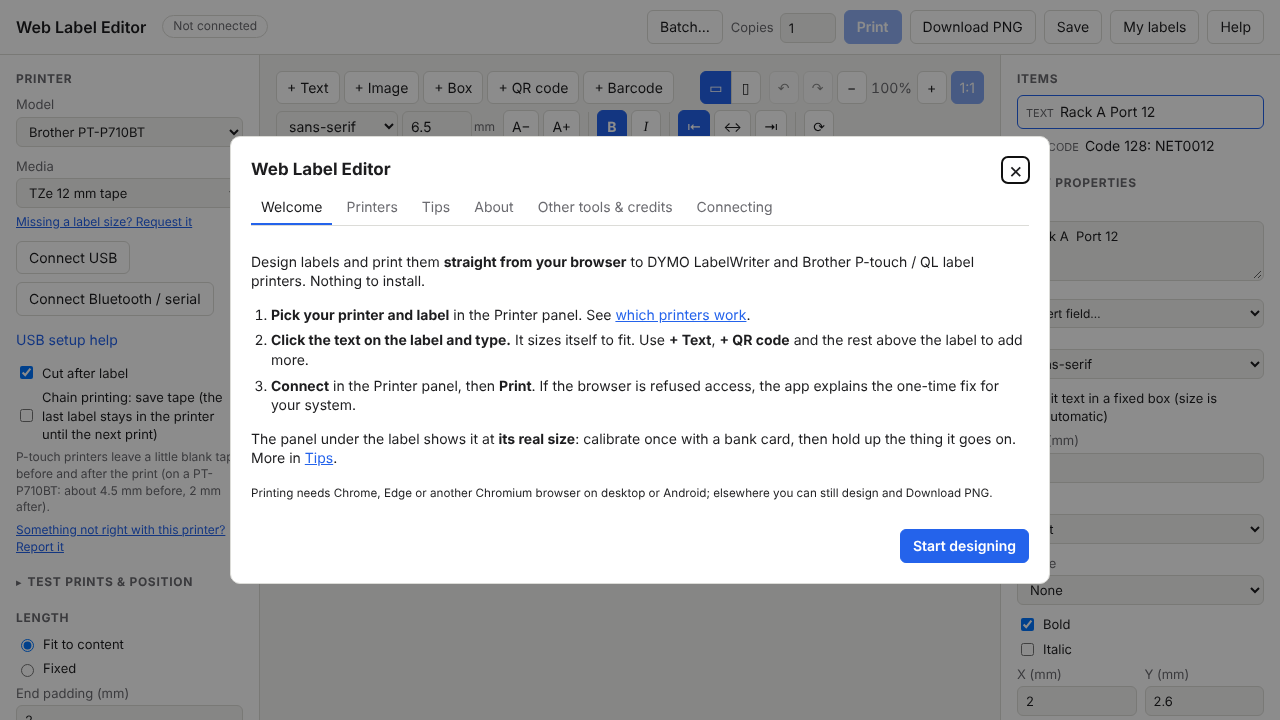
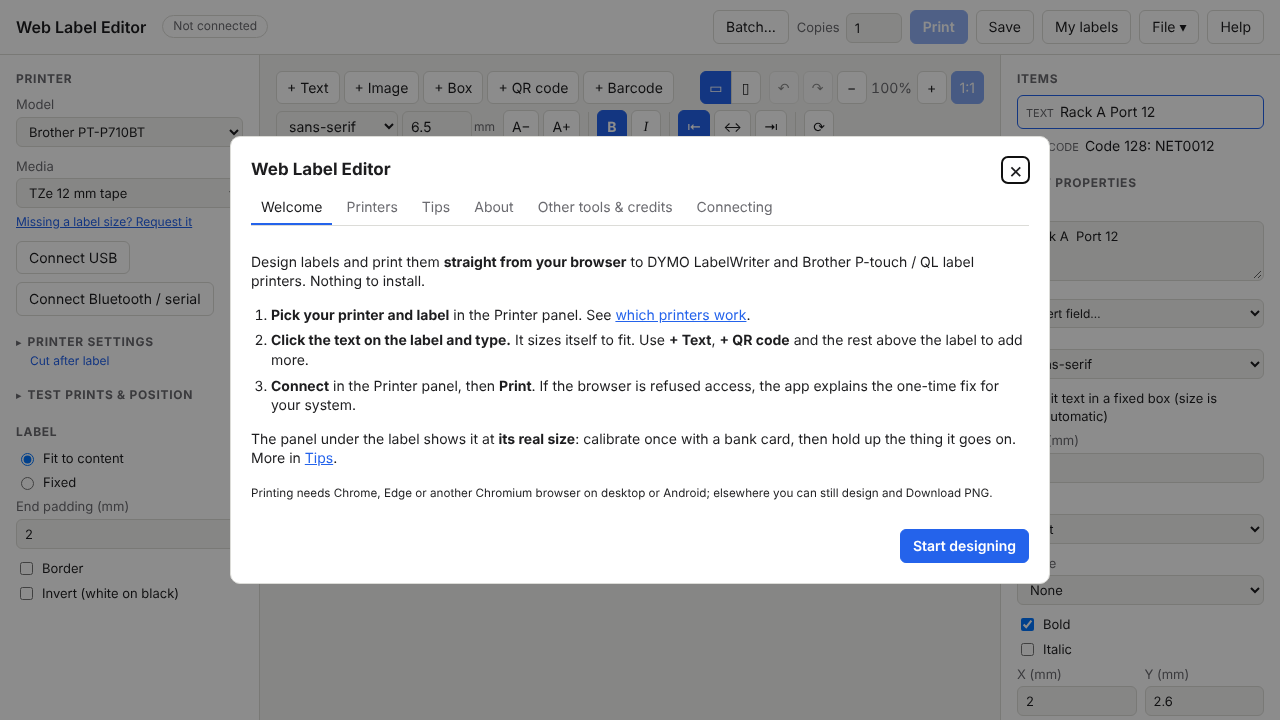
Left panel tidy-up: essentials first, Printer settings collapsed, File menu
- Printer: model, media, Connect (and labels in a row) only. Darkness,
  print quality, cutting, the printer's notes, USB help and the report
  link move into a collapsed Printer settings section, whose heading sums
  up the options set ('Darkness: normal · Print quality: Auto').
- Length, border and invert are one Label section; the die-cut note goes
  (the length controls simply don't show for die-cut labels).
- The Design section goes: Save and My labels were already in the header;
  New design, Open file…, Save file…, Save as new label… and Download PNG
  are in a File menu there. The label being edited from My labels shows as
  a pill next to the connection status.
- Screen calibration: ruler mode says one scale serves both directions
  (square pixels) and that the bank card checks both.

Claude-Session: https://claude.ai/code/session_01YQFkThD3TEfZZoGyfdA6sY

diff --git a/index.html b/index.html
@@ -12,14 +12,25 @@
     <h1>Web Label Editor</h1>
     <div class="conn">
       <span id="conn-status" class="pill">Not connected</span>
+      <span id="lib-current" class="pill muted" hidden></span>
     </div>
     <div class="actions">
       <button id="btn-batch" title="Print a batch: one label per row of a spreadsheet or list, numbered or dated">Batch…</button>
       <label class="copies">Copies <input id="copies" type="number" min="1" max="99" value="1"></label>
       <button id="btn-print" class="primary" disabled>Print</button>
-      <button id="btn-png">Download PNG</button>
       <button id="btn-save">Save</button>
       <button id="btn-labels">My labels</button>
+      <details class="menu" id="file-menu">
+        <summary>File ▾</summary>
+        <div class="menu-list" role="menu">
+          <button id="btn-new" role="menuitem">New design</button>
+          <button id="btn-import" role="menuitem">Open file…</button>
+          <button id="btn-export" role="menuitem">Save file…</button>
+          <button id="btn-lib-saveas" role="menuitem">Save as new label…</button>
+          <button id="btn-png" role="menuitem">Download PNG</button>
+        </div>
+      </details>
+      <input id="import-file" type="file" accept="application/json,.json" hidden>
       <button id="btn-help">Help</button>
     </div>
   </header>
@@ -45,42 +56,31 @@
       </div>
       <div class="row" id="connect-buttons"></div>
       <button id="btn-detect" hidden>Detect loaded tape</button>
-      <button id="btn-usb-help" class="link">USB setup help</button>
-      <div id="model-options"></div>
-      <p id="model-note" class="note"></p>
-      <p class="note"><a id="report-printer" target="_blank" rel="noopener"></a></p>
+
+      <details id="printer-settings" class="section">
+        <summary><h2>Printer settings</h2> <span id="printer-summary" class="state"></span></summary>
+        <div>
+          <div id="model-options"></div>
+          <p id="model-note" class="note"></p>
+          <button id="btn-usb-help" class="link">USB setup help</button>
+          <p class="note"><a id="report-printer" target="_blank" rel="noopener"></a></p>
+        </div>
+      </details>
 
       <details id="adjust-box" class="section">
         <summary><h2>Test prints &amp; position</h2> <span id="adjust-state" class="state"></span></summary>
         <div id="adjust"></div>
       </details>
 
-      <h2>Length</h2>
+      <h2>Label</h2>
       <div id="length-controls">
         <label class="inline"><input type="radio" name="lenmode" value="auto"> Fit to content</label>
         <label class="inline"><input type="radio" name="lenmode" value="fixed"> Fixed</label>
         <label>Length (mm) <input id="len-mm" type="number" min="5" step="1"></label>
         <label>End padding (mm) <input id="pad-mm" type="number" min="0" step="0.5"></label>
       </div>
-      <p id="length-fixed-note" class="note" hidden>Die-cut labels have a fixed length.</p>
-
-      <h2>Label</h2>
       <label class="inline"><input id="border" type="checkbox"> Border</label>
       <label class="inline"><input id="invert" type="checkbox"> Invert (white on black)</label>
-
-      <h2>Design</h2>
-      <p id="lib-current" class="note" hidden></p>
-      <div class="row">
-        <button id="btn-lib-save">Save to My labels</button>
-        <button id="btn-lib-saveas">Save as new…</button>
-        <button id="btn-lib-open">My labels &amp; history</button>
-      </div>
-      <div class="row">
-        <button id="btn-export">Save file…</button>
-        <button id="btn-import">Open file…</button>
-        <input id="import-file" type="file" accept="application/json,.json" hidden>
-      </div>
-      <button id="btn-new" class="danger-link">New design</button>
     </aside>
 
     <section class="stage">

diff --git a/src/app.js b/src/app.js
@@ -1089,6 +1089,19 @@ function handleRect(b, scale) {
 
 // ---------- setup panel ----------
 
+// The Printer settings heading's one line: the options that are set, so
+// they show without opening it.
+function printerSummary(m) {
+  return m.options.map((o) => {
+    const v = option(o.id);
+    const name = o.label.split(/[:(]/)[0].trim();
+    if (o.type === 'checkbox') return v ? name : null;
+    const choice = o.choices.find((c) => (Array.isArray(c) ? c[0] : c) === v);
+    const text = Array.isArray(choice) ? choice[1].split(' (')[0] : v;
+    return `${name}: ${text}`;
+  }).filter(Boolean).join(' · ');
+}
+
 function buildSetup() {
   const m = model();
   const printerSel = $('printer');
@@ -1127,7 +1140,6 @@ function buildSetup() {
 
   const fixedLength = !!medium().lengthDots;
   $('length-controls').hidden = fixedLength;
-  $('length-fixed-note').hidden = !fixedLength;
   document.querySelectorAll('input[name="lenmode"]').forEach((r) => { r.checked = r.value === design.length.mode; });
   $('len-mm').value = design.length.mm;
   // Only the setting that applies: a length when fixed, padding when it fits the content.
@@ -1160,6 +1172,7 @@ function buildSetup() {
     return label;
   }));
   $('model-note').textContent = m.note ?? '';
+  $('printer-summary').textContent = printerSummary(m);
   const lanes = medium().lanes;
   $('lanes-box').hidden = !lanes;
   if (lanes) {
@@ -1183,8 +1196,8 @@ function buildSetup() {
   const linked = design.labelId ? labels.get(design.labelId) : null;
   if (design.labelId && !linked) delete design.labelId;
   $('lib-current').hidden = !linked;
-  $('lib-current').textContent = linked ? `Editing "${linked.name}" from My labels.` : '';
-  $('btn-lib-save').textContent = linked ? 'Save' : 'Save to My labels';
+  $('lib-current').textContent = linked ? `“${linked.name}”` : '';
+  $('lib-current').title = linked ? 'Editing this label from My labels; Save updates it' : '';
   $('btn-save').title = linked ? `Save "${linked.name}" in My labels (Ctrl+S)` : 'Save this label to My labels (Ctrl+S)';
   buildAdjust();
 
@@ -3337,6 +3350,11 @@ function wire() {
   $('invert').onchange = (e) => { design.invert = e.target.checked; refresh(); };
   $('btn-detect').onclick = detect;
   $('btn-usb-help').onclick = () => showUsbHelp();
+  // The File menu closes after a choice, or a click anywhere else.
+  const fileMenu = $('file-menu');
+  fileMenu.addEventListener('click', (e) => { if (e.target.closest('.menu-list button')) fileMenu.open = false; });
+  document.addEventListener('click', (e) => { if (!fileMenu.contains(e.target)) fileMenu.open = false; });
+  document.addEventListener('keydown', (e) => { if (e.key === 'Escape') fileMenu.open = false; });
   $('btn-help').onclick = () => showAbout();
   $('btn-shortcuts').onclick = () => showAbout('tips');
   $('btn-print').onclick = print;
@@ -3399,8 +3417,6 @@ function wire() {
     else setRowMode(e.target.value);
   };
   for (const b of document.querySelectorAll('[data-orient]')) b.onclick = () => setOrientation(b.dataset.orient);
-  $('btn-lib-open').onclick = () => showLibrary();
-  $('btn-lib-save').onclick = () => saveToLibrary(false);
   $('btn-save').onclick = () => saveToLibrary(false);
   $('btn-lib-saveas').onclick = () => saveToLibrary(true);
   $('btn-import').onclick = () => $('import-file').click();

diff --git a/style.css b/style.css
@@ -286,6 +286,15 @@ textarea.inplace {
 .dims { color: var(--text); font-variant-numeric: tabular-nums; margin: 10px 0 2px; }
 /* Red: will be cut off. Amber: past the safe area, may not print. */
 .dims.warn { color: var(--danger); }
+/* The File menu in the header. */
+details.menu { position: relative; }
+details.menu > summary { list-style: none; cursor: pointer; background: var(--panel); border: 1px solid var(--border); border-radius: 6px; padding: 6px 12px; }
+details.menu > summary::-webkit-details-marker { display: none; }
+details.menu[open] > summary, details.menu > summary:hover { border-color: var(--accent); }
+details.menu .menu-list { position: absolute; right: 0; top: calc(100% + 4px); z-index: 20; display: grid; min-width: 190px; background: var(--panel); border: 1px solid var(--border); border-radius: 8px; box-shadow: 0 6px 20px rgba(0, 0, 0, .18); padding: 4px; }
+details.menu .menu-list button { border: none; background: none; text-align: left; padding: 7px 10px; border-radius: 5px; }
+details.menu .menu-list button:hover { background: var(--stage); }
+.pill.muted { color: var(--muted); }
 .dims.caution { color: var(--warn-text); }
 .hint { color: var(--muted); font-size: 12px; margin: 0; }
 

diff --git a/src/screen.js b/src/screen.js
@@ -3,7 +3,10 @@
 // millimetres are nominal), so the user calibrates once by matching an
 // outline to a bank card or a ruler held against the screen. Stored as
 // device pixels per mm, so it survives browser zoom (devicePixelRatio
-// changes); a different monitor needs its own calibration.
+// changes); a different monitor needs its own calibration. One scale serves
+// both directions: screen pixels are square, and browser zoom is the same
+// both ways. The card outline keeps the card's shape, so matching it checks
+// both at once.
 
 const KEY = 'web-label-editor:screen';
 
@@ -65,7 +68,8 @@ export function openScreenCalibration(dialog, ctx = {}) {
       outline.style.width = `${100 * pxPerMm}px`;
       outline.style.height = '18px';
       outline.classList.remove('card');
-      label.textContent = 'Hold a ruler against the screen and resize the bar until it is exactly 100 mm long.';
+      label.textContent = 'Hold a ruler against the screen and resize the bar until it is exactly 100 mm long. Screen '
+        + 'pixels are square, so this sets the height too; the bank card checks both at once if in doubt.';
     }
     slider.value = String(pxPerMm);
   };

diff --git a/src/about.js b/src/about.js
@@ -176,7 +176,7 @@ function tips() {
     el('h3', { textContent: 'Your designs' }),
     p('The ', b('My labels'), ' button keeps your saved labels (open one, or use it as a template for a new label) and the '
       + 'history of what you printed, so you can reprint it. They and the current design are kept in this browser; use ',
-    b('Save file…'), ' / ', b('Open file…'), ' for copies you can back up or share. Source code, issues and the full '
+    b('File'), ' → ', b('Save file…'), ' / ', b('Open file…'), ' for copies you can back up or share. Source code, issues and the full '
       + 'guide: ', link(REPO_URL, 'GitHub'), '.'),
   ];
 }

diff --git a/src/library.js b/src/library.js
@@ -136,7 +136,7 @@ export function openLibrary(dialog, ctx) {
             }),
           ],
         })))
-        : el('p', { className: 'empty', textContent: 'No saved labels yet. Use "Save to My labels" in the Design panel to keep the current label here; saved labels can be reopened or used as templates.' });
+        : el('p', { className: 'empty', textContent: 'No saved labels yet. Use Save (top right, or Ctrl+S) to keep the current label here; saved labels can be reopened or used as templates.' });
     } else {
       const list = history.list();
       body = list.length

diff --git a/README.md b/README.md
@@ -234,8 +234,12 @@ The app has its own welcome page and **Help** with the same information.
   save designs under a name with a thumbnail, reopen them, or use one as a template for a new label.
   Every print is recorded in a history (the last 50), so you can reprint or
   adjust past labels. Both are kept in the browser.
-- **Files:** *Save file* / *Open file* for designs as JSON, to back up or
-  share. *Download PNG* exports the label at the printer's resolution.
+- **Files** (*File* menu, top right): *Save file* / *Open file* for designs
+  as JSON, to back up or share; *Download PNG* exports the label at the
+  printer's resolution; *New design* starts over.
+- **Printer settings** (collapsed in the left panel, its options summed up
+  on its heading): darkness, print quality, cutting, the printer's notes,
+  USB help and the report link.
 
 ## Direct USB instead of a printer driver
 
